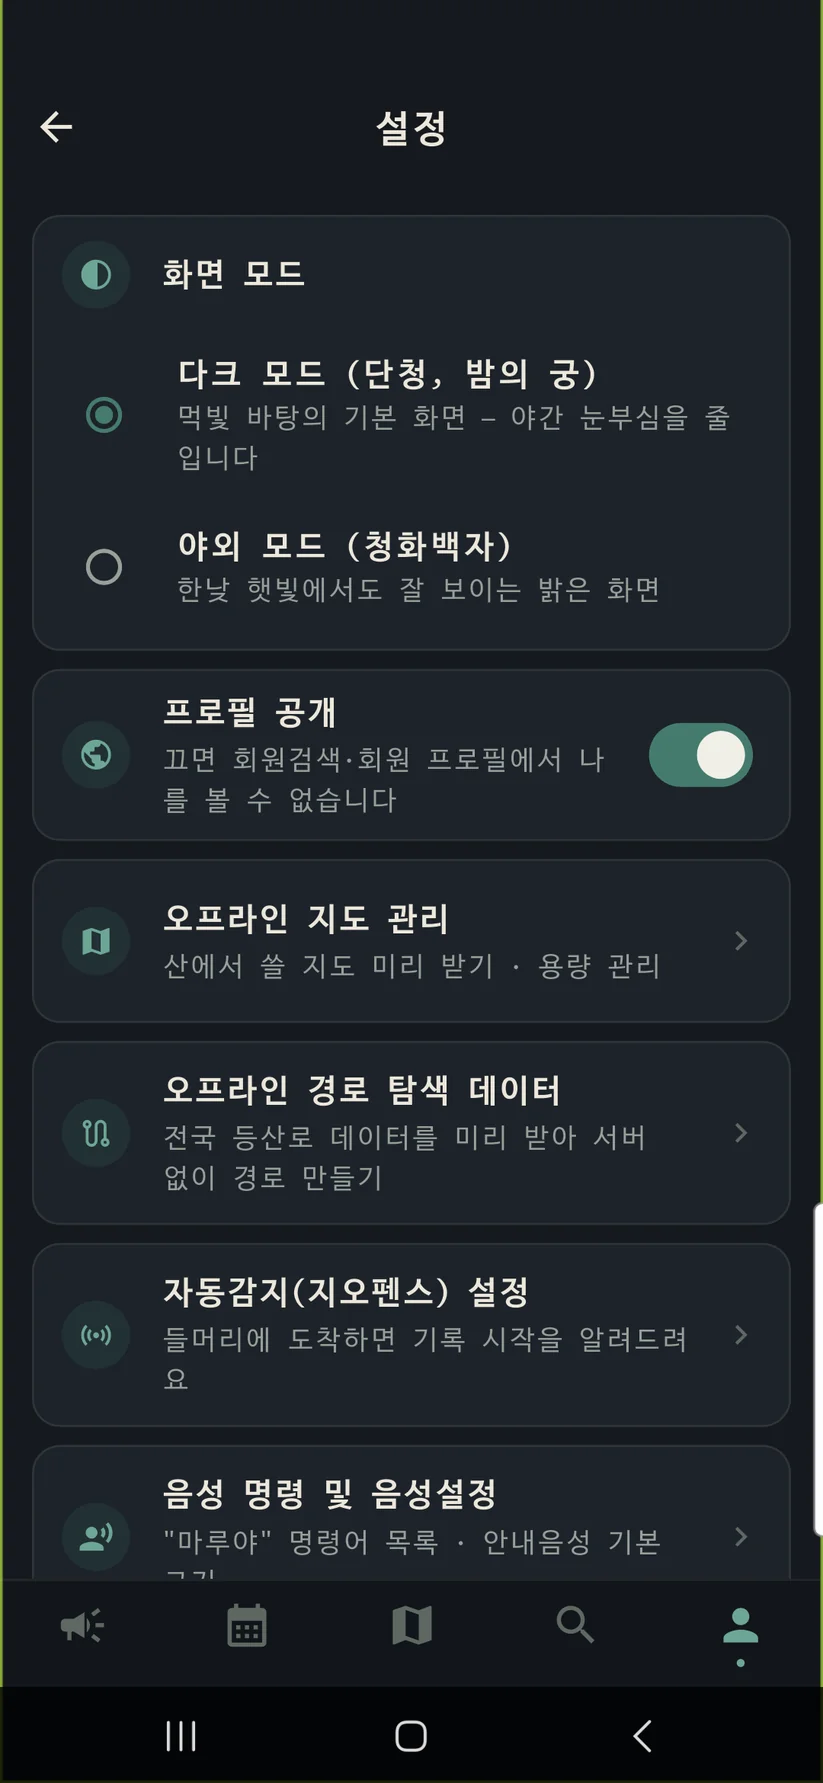
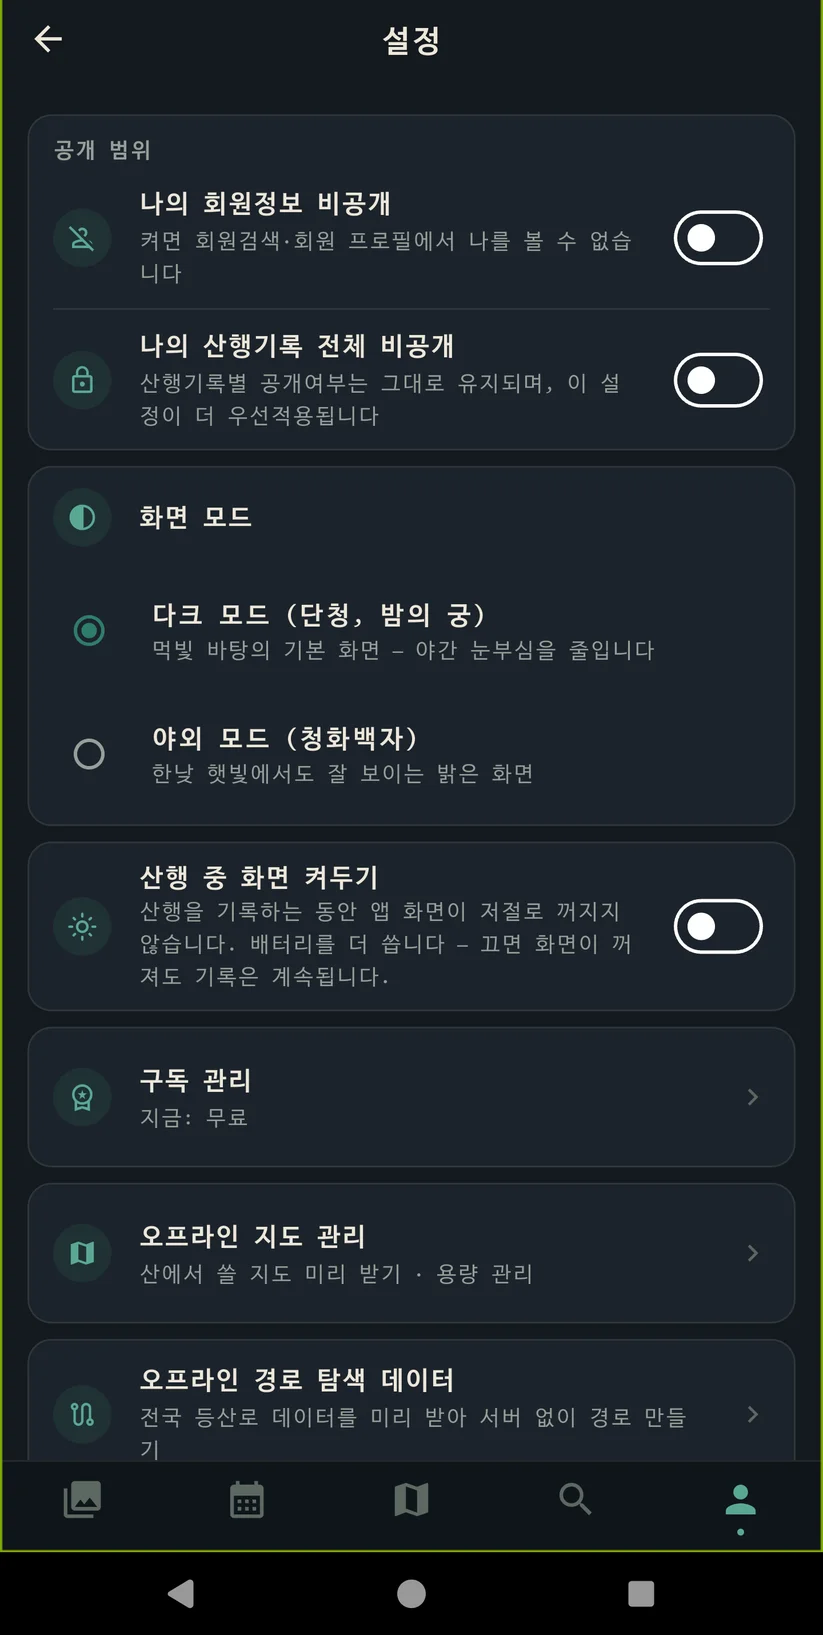
산바라기 문서: 공개 범위 2종·검색어 기준 반영, 설정 화면 재촬영

diff --git a/sanbaragi/manual-data.js b/sanbaragi/manual-data.js
@@ -263,7 +263,7 @@ window.MANUAL = {
             [3, '산행코스', ' — 예) (출발)화장실 > 쉼터 > 정상 > 대피소 > 주차장'],
             [4, '산행 설명', ' — 코스 상태, 풍경, 소요 시간 팁 등을 자유롭게 남깁니다.'],
             [5, '대표사진', ' — 내 사진(갤러리)에서 최대 3장까지 골라 올립니다. 산행 중 사진은 휴대폰 카메라로 찍어 두세요.'],
-            [6, '공개 / 비공개', ' — 공개하면 다른 회원이 검색에서 내 경로를 볼 수 있습니다.'],
+            [6, '공개 / 비공개', ' — 공개하면 다른 회원이 검색에서 내 경로를 볼 수 있습니다. 설정에서 **나의 산행기록 전체 비공개**를 켜 두었다면 공개로 저장해도 나만 봅니다.'],
             [7, '저장', ' — 기록을 저장하고 홈 지도로 돌아갑니다.'],
             ['·', '기록 버리기', ' — 이번 기록을 저장하지 않고 지웁니다. 궤적·사진·메모가 모두 삭제되며 되돌릴 수 없습니다.'],
           ] },
@@ -331,11 +331,11 @@ window.MANUAL = {
           shots: [ { img: '06-3-회원등산경로', caption: '검색 — 회원등산경로(「등산」으로 찾은 모습)', marks: [[1, 38.5, 10.0], [2, 5.0, 17.5], [3, 57.0, 24.5], [4, 5.0, 31.5]] } ],
           steps: [
             [1, '회원등산경로', ' — 검색 탭의 두 번째 탭입니다.'],
-            [2, '검색 칸', ' — 산 이름 또는 경로 제목을 입력합니다. 입력하기 전에는 「검색어를 입력해주십시요」가 보입니다.'],
+            [2, '검색 칸', ' — 산 이름 또는 경로 제목을 한글 2자·영문 3자 이상 입력합니다(기호·띄어쓰기는 세지 않습니다). 입력하기 전에는 「검색어를 입력해주십시요」, 글자가 모자라면 「한글은 2자, 영문은 3자 이상 입력해주십시요」가 보입니다.'],
             [3, '전체 / 팔로잉', ' — 모든 회원의 공개 경로를 볼지, 내가 팔로우한 회원의 경로만 볼지 고릅니다.'],
             [4, '경로 카드', ' — 누르면 그 회원의 기록 상세가 열립니다. **따라가기**, **찜하기**, 댓글을 쓸 수 있습니다.'],
           ],
-          tips: ['**팔로잉**으로 볼 회원은 다음 절의 **회원검색**에서 팔로우합니다.'] },
+          tips: ['**팔로잉**으로 볼 회원은 다음 절의 **회원검색**에서 팔로우합니다.', '검색 서버에 닿지 못하면 「검색 서버에 연결하지 못했습니다. 잠시 후 다시 시도해 주세요.」가 나옵니다. 인터넷 연결을 확인하고 잠시 뒤 다시 찾으세요.'] },
 
         { id: 'search-member', title: '회원검색과 회원 프로필', desc: '닉네임으로 회원을 찾아 팔로우하고, 그 회원의 공개 등산 이력을 봅니다.',
           shots: [
@@ -343,13 +343,13 @@ window.MANUAL = {
             { img: '06-4-회원프로필', caption: '회원 프로필' },
           ],
           steps: [
-            [1, '닉네임 검색', ' — 한글 2자·영문 3자 이상 입력합니다. 찾는 회원이 없으면 **검색 결과가 없습니다.**가 나옵니다.'],
+            [1, '닉네임 검색', ' — 한글 2자·영문 3자 이상 입력합니다(기호·띄어쓰기는 세지 않습니다). 글자가 모자라면 「한글은 2자, 영문은 3자 이상 입력해주십시요」가 나옵니다. 찾는 회원이 없으면 **검색 결과가 없습니다.**가 나옵니다.'],
             [2, '전체 / 팔로워 / 팔로잉', ' — 찾을 범위를 고릅니다.'],
             [3, '이름순 / 거리순 / 시간순', ' — 목록 정렬 순서입니다.'],
             [4, '팔로우', ' — 이 회원의 공개 경로를 회원등산경로에서 볼 수 있게 됩니다.'],
-            ['·', '회원 프로필', ' — 회원을 누르면 팔로워·팔로잉 수와 공개된 등산 이력이 보입니다.'],
+            ['·', '회원 프로필', ' — 회원을 누르면 팔로워·팔로잉 수와 **산행이력**·**웨이포인트** 탭이 보입니다. 산행 기록을 공개하지 않은 회원은 「산행 기록을 공개하지 않은 회원입니다」, 회원정보를 숨긴 회원은 「비공개 프로필입니다.」가 나옵니다.'],
           ],
-          tips: ['내 프로필을 숨기려면 **내정보 → 설정 → 프로필 공개**를 끄세요.'] },
+          tips: ['나를 숨기려면 **내정보 → 설정 → 나의 회원정보 비공개**를 켜세요. 산행 기록만 숨기려면 **나의 산행기록 전체 비공개**를 켭니다.', '임시코스와 찜한코스는 공개 설정과 관계없이 나만 봅니다.'] },
       ] },
 
     // ───────────────────────── 7. 일정·위치 공유
@@ -482,13 +482,14 @@ window.MANUAL = {
           ],
           tips: ['서버에 올라가지 않은 기록이 있으면 「N건이 아직 서버에 올라가지 않았습니다」가 뜹니다. **지금 올리기**를 누르세요.'] },
 
-        { id: 'profile-settings', title: '설정 화면', desc: '설정은 한 화면에 모여 있습니다. 위에서부터 화면 모드·프로필 공개, 지도·데이터 받기, 자동감지·음성, 산행 중 안내, 백그라운드 자동 기능, 기록 정밀도, 약관·계정 순서입니다. 화면을 아래로 내리며 찾으세요.',
-          shots: [ { img: '09-3-설정', caption: '설정 화면(맨 위)', marks: [[1, 5.0, 12.5], [2, 5.0, 38.0], [3, 5.0, 48.5], [4, 5.0, 70.0]] } ],
+        { id: 'profile-settings', title: '설정 화면', desc: '설정은 한 화면에 모여 있습니다. 위에서부터 공개 범위·화면 모드, 지도·데이터 받기, 자동감지·음성, 산행 중 안내, 백그라운드 자동 기능, 기록 정밀도, 약관·계정 순서입니다. 화면을 아래로 내리며 찾으세요.',
+          shots: [ { img: '09-3-설정', caption: '설정 화면(맨 위)', marks: [[1, 5.0, 14.5], [2, 5.0, 23.2], [3, 5.0, 31.6], [4, 5.0, 76.6]] } ],
           steps: [
-            [1, '화면 모드', ' — **다크 모드 (단청, 밤의 궁)** 또는 한낮 햇빛에서도 잘 보이는 **야외 모드 (청화백자)**를 고릅니다.'],
-            [2, '프로필 공개', ' — 끄면 회원검색·회원 프로필에서 나를 볼 수 없습니다.'],
-            [3, '오프라인 지도 관리 / 오프라인 경로 탐색 데이터', ' — 산에 가기 전에 지도와 등산로 데이터를 받아 둡니다(다음 절).'],
-            [4, '자동감지(지오펜스) 설정 / 음성 명령 및 음성설정', ' — 들머리 자동감지와 음성 명령 설정입니다(이 장 마지막 절).'],
+            [1, '나의 회원정보 비공개', ' — 켜면 회원검색·회원 프로필에서 나를 볼 수 없습니다. 켜는 순간 **나의 산행기록 전체 비공개**도 켜진 채 잠기고, 다시 끄면 산행기록 비공개는 켜진 채 남아 따로 끌 수 있습니다.'],
+            [2, '나의 산행기록 전체 비공개', ' — 켜면 **공개**로 저장한 산행까지 모두 나만 봅니다. 산행마다 고른 공개/비공개는 그대로 남아, 끄면 원래대로 보입니다. 처음에는 두 설정 모두 꺼져(공개) 있습니다.'],
+            [3, '화면 모드', ' — **다크 모드 (단청, 밤의 궁)** 또는 한낮 햇빛에서도 잘 보이는 **야외 모드 (청화백자)**를 고릅니다.'],
+            [4, '오프라인 지도 관리 / 오프라인 경로 탐색 데이터', ' — 산에 가기 전에 지도와 등산로 데이터를 받아 둡니다(다음 절).'],
+            ['·', '내가 설정한 들머리 도착 알림 / 음성 명령 및 음성설정', ' — 들머리 자동감지와 음성 명령 설정입니다(이 장 마지막 절).'],
             ['·', '경로이탈 알림', ' — 따라가기 중 경로를 벗어나면 음성으로 알립니다. **이탈 판정 거리**를 등산로 구간과 손으로 그린 구간으로 나눠 정합니다.'],
             ['·', '산행 시작 시 소리·진동 켜기', ' — 휴대폰이 무음·진동이면 앱을 열 때 음성으로 알리고, 산행을 시작하면 소리 모드로 바꿉니다. 끄면 알림이 진동으로만 올 수 있습니다. 미디어 볼륨은 이 설정과 상관없이 산행을 시작할 때 올립니다.'],
             ['·', '휴식알림', ' — 출발한 뒤 정한 **알림 간격**마다 휴식을 권합니다. **알림 횟수**만큼 알리고 멈춥니다.'],
@@ -516,7 +517,7 @@ window.MANUAL = {
             ['·', '들머리 도착 알림 (앱 꺼짐)', ' — 앱을 완전히 닫아도 일정일에 들머리 1km 안에 들어오면 알립니다. 위치 「항상 허용」이 필요합니다.'],
             ['·', '재부팅 후 기록 자동 복구', ' — 산행 중 배터리 방전으로 꺼졌다 켜지면 기록을 이어 갑니다.'],
             ['·', '예약 없이 들머리 도착 시 등산 시작 묻기', ' — 일정이 없어도 들머리에서 걷기 시작하면 묻습니다. 신체 활동 권한이 필요합니다.'],
-            ['·', '자동감지(지오펜스) 설정', ' — 지도를 눌러 들머리를 직접 지정하고 **감지 반경**을 정합니다.'],
+            ['·', '내가 설정한 들머리 도착 알림', ' — 지도를 눌러 들머리를 직접 지정하고 **감지 반경**을 정합니다.'],
             [1, '안내음성 기본 크기', ' — 「마루야」 응답과 경로 이탈 경고의 소리 크기입니다. **미리 듣기**로 확인합니다.'],
             [2, '볼륨 두 버튼으로 수음 열기', ' — 볼륨 올리기·내리기를 함께 누르면 마이크 버튼을 누른 것과 같습니다.'],
             [3, '음성 명령어', ' — 쓸 수 있는 명령 목록입니다. 목록에는 「마루야 등산시작」처럼 적혀 있지만, 마이크 버튼을 누른 뒤에는 「등산 시작」처럼 명령만 말해도 됩니다.'],
@@ -569,7 +570,7 @@ window.MANUAL = {
           steps: [
             ['·', '인터넷이 안 되는 산에서도 쓸 수 있나요?', ' — 네. 기록은 인터넷 없이도 됩니다. 지도와 경로 계산은 오프라인 지도·경로 탐색 데이터를 미리 받아 두면 됩니다(9장).'],
             ['·', '음성 명령이 계속 듣고 있나요?', ' — 아닙니다. 마이크 버튼을 누를 때만 듣고, 명령이 끝나면 곧바로 꺼집니다.'],
-            ['·', '내 기록을 다른 사람이 볼 수 있나요?', ' — **공개**로 저장한 기록만 다른 회원이 볼 수 있습니다. 비공개 기록은 나만 봅니다.'],
+            ['·', '내 기록을 다른 사람이 볼 수 있나요?', ' — **공개**로 저장한 기록만 다른 회원이 볼 수 있습니다. 비공개 기록은 나만 봅니다. **내정보 → 설정**에서 **나의 산행기록 전체 비공개**를 켜면 공개로 둔 기록까지 모두 나만 봅니다.'],
             ['·', '휴대폰을 바꾸면 기록은 어떻게 되나요?', ' — 저장해 서버에 올라간 기록은 새 휴대폰에서 같은 계정으로 로그인하면 다시 받아집니다.'],
             ['·', '문의는 어디로 하나요?', ' — **내정보 → 설정 → 문의하기**로 이메일을 보낼 수 있습니다.'],
           ] },

diff --git a/sanbaragi/guide-data.js b/sanbaragi/guide-data.js
@@ -729,7 +729,7 @@ window.TUTORIAL = {
             '**공개**를 누르고 **비공개**를 고릅니다.',
             '맨 아래 **저장**을 누릅니다.',
           ],
-          tips: ['회원 검색에서 나를 숨기려면 **설정**의 「프로필 공개」를 끄세요.'],
+          tips: ['회원 검색에서 나를 숨기려면 **설정**의 「나의 회원정보 비공개」를 켜세요. 산행 기록만 숨기려면 「나의 산행기록 전체 비공개」를 켭니다.'],
           shots: [ { img: '05-1-등산완료', caption: '공개 칸(등산 완료 화면과 같은 자리)', marks: [[3, 87, 43.8]] } ] },
 
         { id: 'upload-now', title: '기록이 서버에 안 올라갔을 때',
@@ -762,7 +762,7 @@ window.TUTORIAL = {
             '「화면 모드」에서 **야외 모드 (청화백자)**를 누릅니다.',
             '돌아가려면 **다크 모드 (단청, 밤의 궁)**를 누릅니다.',
           ],
-          shots: [ { img: '09-3-설정', caption: '설정 화면', marks: [[2, 12.6, 31.8], [3, 12.6, 23.3]] } ] },
+          shots: [ { img: '09-3-설정', caption: '설정 화면', marks: [[2, 10.8, 46.1], [3, 10.8, 38.5]] } ] },
       ] },
     ],
   },

diff --git a/sanbaragi/features-data.js b/sanbaragi/features-data.js
@@ -221,7 +221,7 @@ window.FEATURE_GUIDE = {
         '닉네임으로 회원 검색',
         '팔로우·팔로워',
         '다른 회원의 공개 산행 이력 보기',
-        '프로필 공개 여부 선택',
+        '회원정보·산행기록 전체 비공개 선택',
       ] },
       { name: '코스 반응', items: [
         '공개 코스 좋아요·찜·댓글',

diff --git a/sanbaragi/manual.html b/sanbaragi/manual.html
@@ -152,7 +152,7 @@ nav.toc::-webkit-scrollbar-thumb{background:var(--line);border-radius:4px}
 </div>
 <script src="tabs.js?v=b26381f830"></script>
 <script src="search.js?v=01a66714cf"></script>
-<script src="manual-data.js?v=8804228572"></script>
+<script src="manual-data.js?v=4de297e3c1"></script>
 <script>
 (function(){
   const M = window.MANUAL;

diff --git a/sanbaragi/features.html b/sanbaragi/features.html
@@ -131,7 +131,7 @@ footer .safety b{color:var(--star)}
 </div>
 <script src="tabs.js?v=b26381f830"></script>
 <script src="search.js?v=01a66714cf"></script>
-<script src="features-data.js?v=77509c166c"></script>
+<script src="features-data.js?v=bb612d9214"></script>
 <script>
 (function(){
   const G = window.FEATURE_GUIDE;

diff --git a/sanbaragi/index.html b/sanbaragi/index.html
@@ -173,7 +173,7 @@ footer .safety{color:var(--ink)}
 </div>
 <script src="tabs.js?v=b26381f830"></script>
 <script src="search.js?v=01a66714cf"></script>
-<script src="guide-data.js?v=dbbf1cb58e"></script>
+<script src="guide-data.js?v=f72f96e3dc"></script>
 <script>
 (function(){
   const T = window.TUTORIAL;
